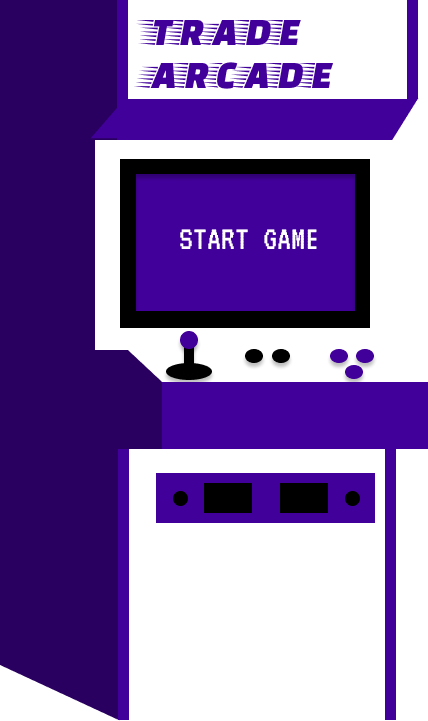
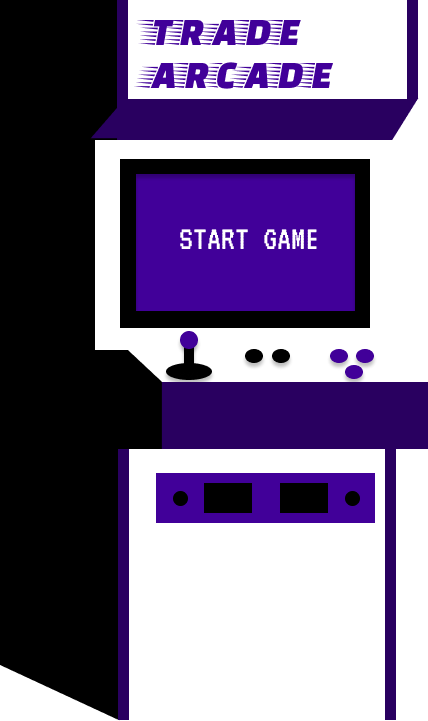
Updated tradearcademachine graphic

diff --git a/front-end/src/index.css b/front-end/src/index.css
@@ -139,7 +139,6 @@ body {
   float: left;
   margin-top: 25px;
   width: 50%;
-  background-color: #000;
 } 
 
 .homePageMachineImage {
@@ -183,7 +182,7 @@ body {
 }
 
 .homePageFooter {
-  background-color: #fff;
+  background-color: #000;
   color: #410099;
   height: 400px;
   box-shadow: 0 -3px 3px 0 #290060;
